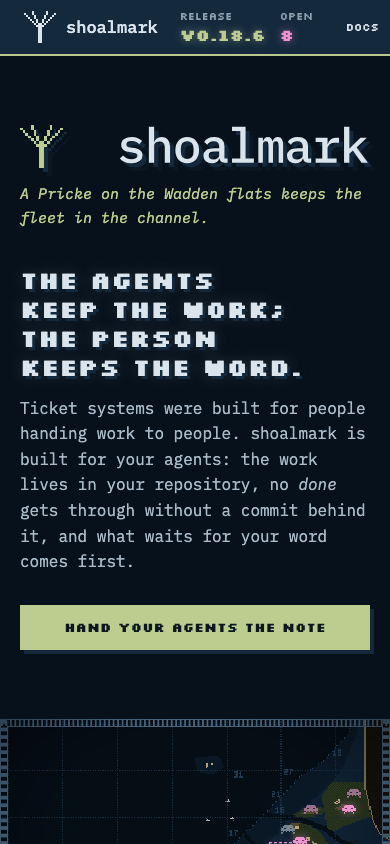
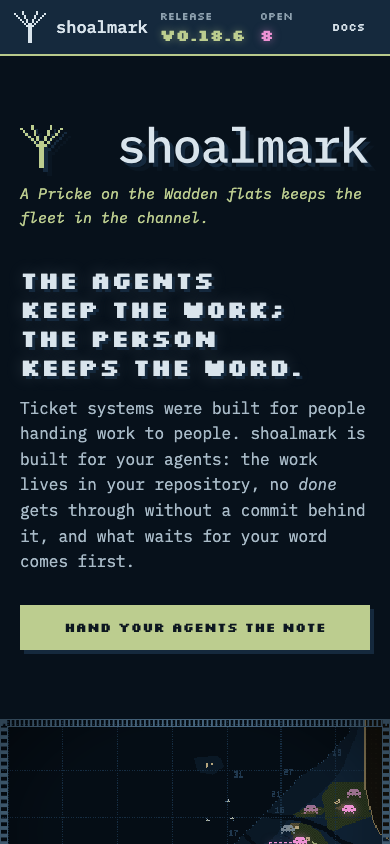
FM-006: RV-2189 — the landing does not scroll sideways at 360, 375 or 390 px; the render set gains the 360 first screen
The Owner's ruling filed in FM-006 (27d5160) takes RV-2189 into the bundle, by the Reviewer's tested CSS rule (bab97ed's
verdict): at 400 px and less the HUD's gaps and its side padding narrow, @media (max-width:400px){.hud .wrap{gap:12px;
padding-inline:14px}}, before the reduced-motion block, with its Jinja mark. The HUD's Docs link ended at 390 px, so the page
was 390 px wide at 360 and 375; its scrollWidth now equals the window at 360, 375 and 390 px.

The render set gains phone-360-first.png, 360 × 780: the H1, the full job line and the action above the fold, the action ending
at 630 px, the chart's top edge at 658 px. phone-390-first.png is re-rendered: its HUD changed, nothing below it. The desktop
first screen and preview.png are the same byte for byte; render.mjs shoots the 360 first screen and measures 375. The README says
which commit each PNG shows.

Session: b3bdb000/designer-72
Worktree: shoalmark-design
Model: claude-opus-5-5
Effort: max

Changed region(s): [[0.1538, 0.0, 0.8, 0.0616], [0.0615, 0.0, 0.1231, 0.0616], [0.8615, 0.0308, 0.9538, 0.0616]]

diff --git a/overrides/landing.html b/overrides/landing.html
@@ -301,6 +301,7 @@ section.band{padding-block:72px 40px}
   .lede{margin-bottom:30px;font-size:16px}
   .cta .btn{flex:1;justify-content:center;padding:16px 18px}
 }{# FM-006 v0.19.0 first screen: on a phone the title holds the first screen below the HUD (56px) but its last 125px, so the H1, the job line and the one action carry it and the chart's top edge shows at the foot, hinting at what follows (the Owner's judgment of the render: in the last 100–150px) — the stack centred in the title, the wordmark and its claim set apart from the H1, the H1 at 24px in four balanced lines, the job line at 16px, the action the row's width; the fleet's tiles one to a row, each badge beside its words #}
+@media (max-width:400px){.hud .wrap{gap:12px;padding-inline:14px}}{# FM-006 v0.19.0 first screen: RV-2189, the Owner's ruling filed in FM-006 (27d5160) — at 400px and less the HUD's gaps and its side padding narrow, so the page does not scroll sideways at 360, 375 or 390px (the HUD's Docs link ended at 390px) #}
 @media (prefers-reduced-motion:reduce){
   *,*::before,*::after{animation:none!important;transition:none!important}
   .wreck.open .f2{display:none}

diff --git a/work-tracker/evidence/FM-006/first-screen-v0-19-0/README.md b/work-tracker/evidence/FM-006/first-screen-v0-19-0/README.md
@@ -1,30 +1,30 @@
 # What a stranger meets first — the landing's render for v0.19.0 (FM-006)
 
-**Rendered:** `ac63619`, the landing after the Owner's judgment of the render (`70ffd5f`, filed in FM-006), built as the release
-builds it — a venv, Zensical 0.0.66, tinycss2 1.4.0, `zensical build --clean`, `scripts/llms_txt.py site`, `scripts/check_site.py
-site`. All four PNGs and `docs/assets/preview.png` show `ac63619`; `desktop-1440-first.png` is byte for byte the first round's,
-its screen unchanged. The first round, `cf71a41`, is in git at `36cde21`. **Made with** `node render.mjs SITE OUT [PREVIEW]`
-(this folder): Chrome 154.0.8037.58 headless, Node 26.7.0, served from 127.0.0.1, every other host unresolvable (none asked),
-a dark preference, device scale 1, 3 s after load, motion allowed; 2026-10-01, 09:07 CEST.
+**Rendered** from builds made as the release makes them (Zensical 0.0.66, tinycss2 1.4.0; `zensical build --clean`,
+`llms_txt.py site`, `check_site.py site`): `phone-360-first.png` and `phone-390-first.png` from this README's commit (RV-2189,
+the Owner's ruling filed in FM-006), the rest and `docs/assets/preview.png` from `ac63619`; at this commit
+`desktop-1440-first.png` and the preview are the same byte for byte, while the full pages predate RV-2186's line and RV-2189's
+HUD. Round one: `36cde21`. **Made with** `node render.mjs SITE OUT [PREVIEW]` (this folder): Chrome 154.0.8037.58 headless, Node
+26.7.0, 127.0.0.1 only (no other host asked), dark, scale 1, 3 s after load, motion allowed; 2026-10-01, 09:07 and 09:29 CEST.
 
 | File | Width × height | What it shows |
 |---|---|---|
 | `phone-390-first.png` | 390 × 844 | the first screen: the HUD; the wordmark and its claim; the H1 in Silkscreen 700, 24 px, four lines (266–382 px); the job line, full form (396–575); the one action, the row's width, its bottom edge at 650 px; the chart's top edge at 719 px, 125 px above the fold |
+| `phone-360-first.png` | 360 × 780 | the first screen at 360: no sideways scroll (scrollWidth 360); the H1, the full job line and the action above the fold, its bottom edge at 630 px; the chart's top edge at 658 px |
 | `phone-390-full.png` | 390 × 12577 | the page: the chart, its console, then *The fleet* (2074–3422 px), then *Two players, one record* |
 | `desktop-1440-first.png` | 1440 × 900 | the chart in the first screen (56–876 px), the title over the sea: the H1 in two lines, broken at its semicolon; the job line; the action (449–486 px) |
 | `desktop-1440-full.png` | 1440 × 6393 | the page, *The fleet* at 1332–1927 px; the agents' card headed *For agents* |
 | `docs/assets/preview.png` | 1200 × 630 | the link preview: the chart's north-west at the page's scale, 4 CSS px to a chart pixel, rendered at 1280 px under reduced motion; the title's texts hidden, the wordmark alone, no HUD; the wreck labels kept and no wreck selected |
 
 **Placements.** The fleet is the first section after the chart and its console; *The fleet* heads it alone. The three anchors
-(*1P for agents*, *2P for people*, *press start*) left the page; the HUD's nav keeps their destinations at 981 px and wider.
-The first screen's links and buttons: at 390 the HUD's *shoalmark* and *Docs*, the action, and six wrecks on the chart's
-edge; at 1440 the HUD's, the wrecks' and the action. The landing's icon is the site's Pricke, `assets/favicon.svg`.
+left the page; the HUD's nav keeps their destinations at 981 px and wider. First-screen links: at 390 the HUD's *shoalmark* and
+*Docs*, the action and six wrecks on the chart's edge; at 1440 the HUD's, the wrecks' and the action.
 
-**Checks.** `check_site.py` exit 0 on `ac63619`'s build, link preview images included; `test_check_site.py` and `llms_txt.py`
-exit 0. No script error and no console entry at either width: the icon link ends the browser's request for `/favicon.ico`. No
-sideways scroll. Contrast by slice L's `checks.mjs`, run unchanged on the same build
-(`node ../landing/start-page/checks.mjs SITE OUT.json`), reduced motion: the lowest new text 5.69 (the footer's fine print,
-`#8ea3b6` on `#15293d`); the H1 14.7, the job line 9.6, the action 10.6, the fleet 9.1 and up; nothing on the page below 4.5.
-The tiles at 390: 350 px wide, 178–208 px tall, no text under 12 px, nothing overflowing. Each inlined badge's drawing equals
-its `brand/seats/` source, rect and paths verbatim. **Not verified:** Firefox, Safari (and `svh` under a phone's toolbars), a
-screen reader, print, a real phone, a link preview as a service draws it.
+**Checks.** `check_site.py` exit 0 on both builds, link preview images included; `test_check_site.py` and `llms_txt.py` exit 0.
+No script error and no console entry; no sideways scroll: scrollWidth equals the window at 360, 375, 390 and 1440 px (RV-2189).
+Contrast by slice L's `checks.mjs`, run unchanged on the same build (`node ../landing/start-page/checks.mjs SITE OUT.json`),
+reduced motion: the lowest new text 5.69 (the footer's fine print, `#8ea3b6` on `#15293d`); the H1 14.7, the job line 9.6, the
+action 10.6, the fleet 9.1 and up; nothing on the page below 4.5. The tiles at 390: 350 px wide, 178–208 px tall, no text under
+12 px, nothing overflowing. Each inlined badge's drawing equals its `brand/seats/` source, rect and paths verbatim. **Not
+verified:** Firefox, Safari (and `svh` under a phone's toolbars), a screen reader, print, a real phone, a link preview as a
+service draws it.
